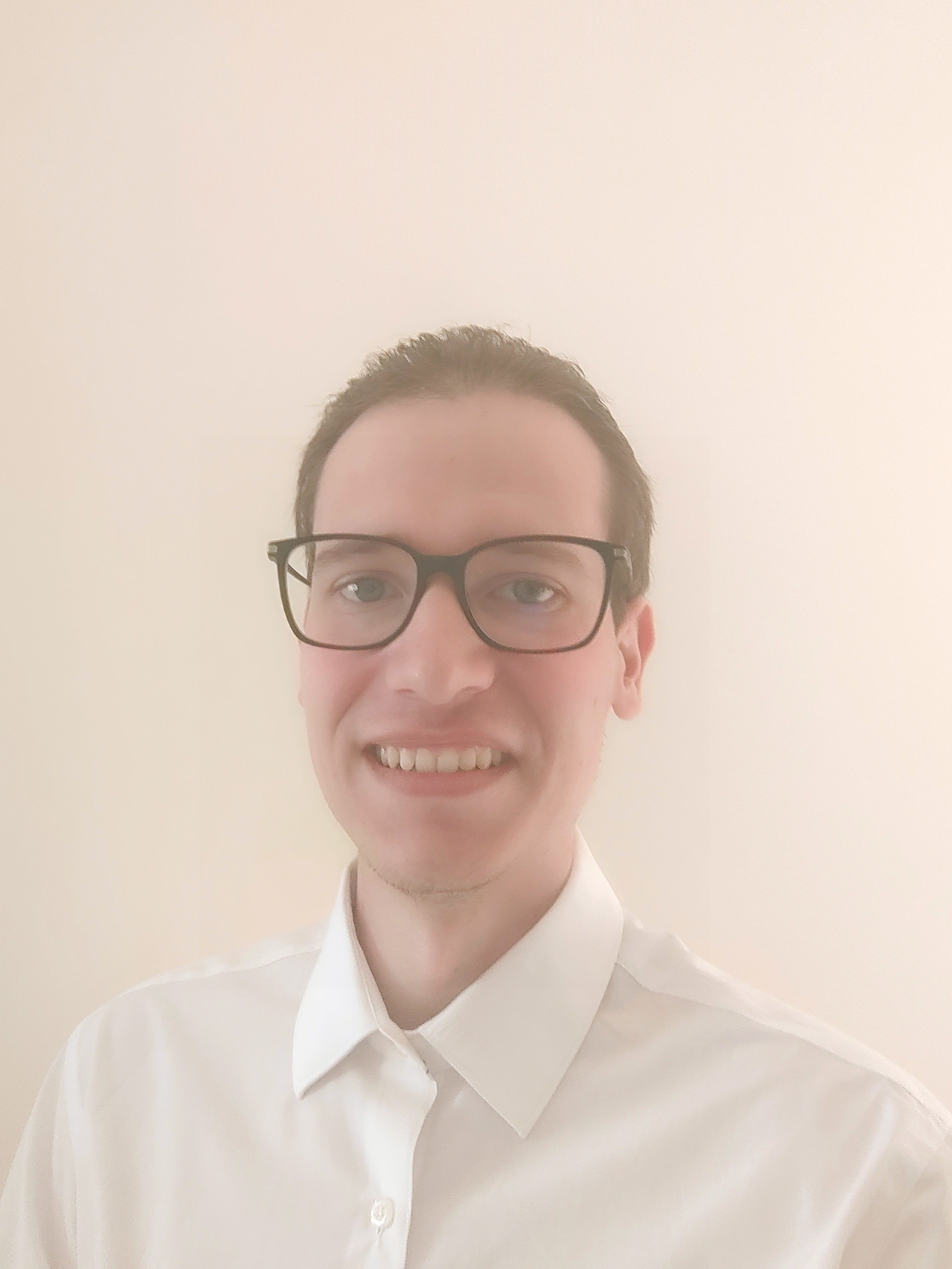
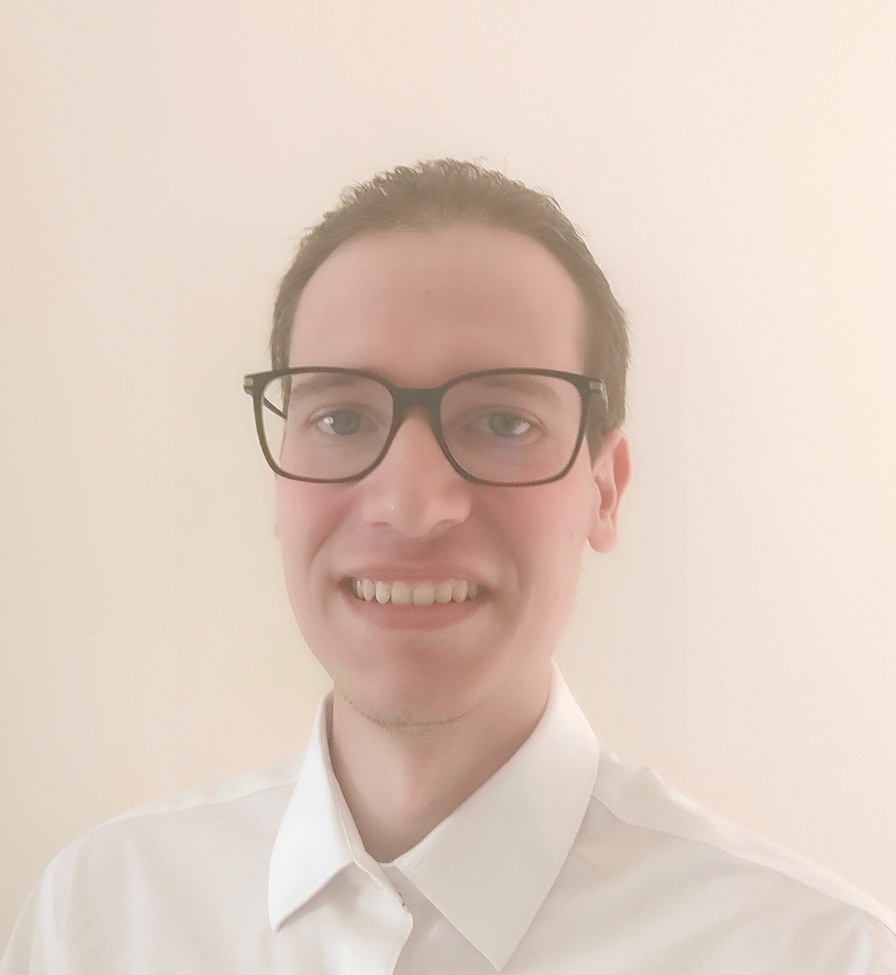
CV_updates

diff --git a/index.html b/index.html
@@ -47,7 +47,7 @@
   <div class="cover-bg p-3 p-lg-4 text-white">
     <div class="row">
       <div class="col-lg-4 col-md-5">
-        <div><img src="./img/Rafael_QA-Testes.jpg" width="165" height="200"/></div>
+        <div><img src="./img/Rafael_QA-Testes.jpg" width="170" height="185"/></div>
       </div>
       <div class="col-lg-8 col-md-7 text-center text-md-start">
         <h2 class="h1 mt-2" data-aos="fade-left" data-aos-delay="0">Rafael Pellegatti Fiorin</h2>
@@ -161,9 +161,10 @@
       <div class="timeline-card timeline-card-primary card shadow-sm">
         <div class="card-body">
           <div class="h5 mb-1"> 
-            Engenheiro de Qualidade em software | Software Tester Engineer <span class="text-muted h6">- Agibank</span></div>
-          <div class="text-muted text-small mb-2">Outubro, 2024 - momento</div>
-          <div>Em progresso...</div>
+            Engenheiro de Qualidade em software | Software Tester Engineer II <span class="text-muted h6">- Agibank</span></div>
+          <div class="text-muted text-small mb-2">Outubro, 2024 - Janeiro, 2025</div>
+          <div>Qualidade de Software em produto de Seguros, trabalhando com testes exploratórios e integrados/back-end sob metodologia Scrum, 
+            além de teste de performance em microsserviços via Jobs de execução. </div>
         </div>
       </div>
       <div class="timeline-card timeline-card-primary card shadow-sm">
@@ -177,7 +178,7 @@
       </div>
       <div class="timeline-card timeline-card-primary card shadow-sm">
         <div class="card-body">
-          <div class="h5 mb-1">Analista de teste e Qualidade em software <span class="text-muted h6">- Lenovo</span></div>
+          <div class="h5 mb-1">Analista de teste e Qualidade em software I <span class="text-muted h6">- Lenovo</span></div>
           <div class="text-muted text-small mb-2">Dezembro, 2020 - Julho, 2023</div>
           <div>Qualidade de software em projetos internos e externos da área de P&D, atuando com estratégias de QA, gestão/escrita dos Casos de teste e relatórios
             de teste das aplicações sob metodologia Scrum, além de testes manuais, automatizados com CI-CD e testes de performance.</div>
